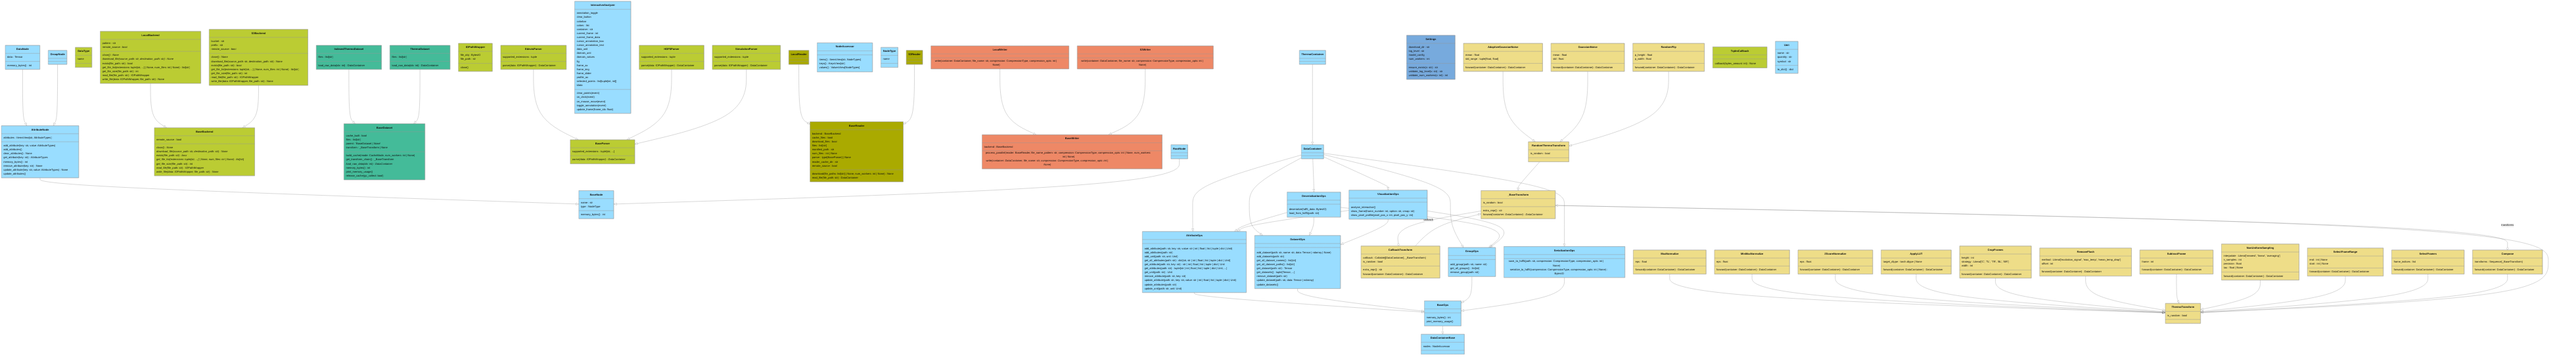
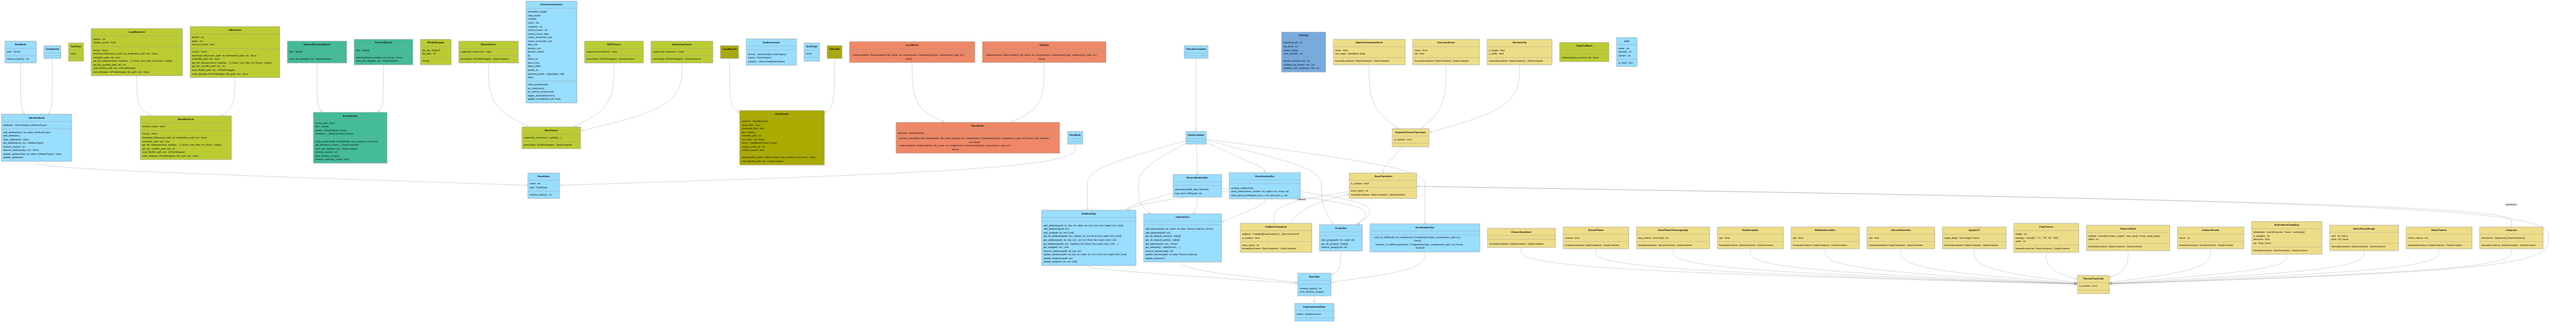
Release 0.3.1 (#304)
* Bump version: 0.3.1dev → 0.3.1

* Update mermaid diagrams

---------

diff --git a/src/pythermondt/__pkginfo__.py b/src/pythermondt/__pkginfo__.py
@@ -1,1 +1,1 @@
-__version__ = "0.3.1dev"
+__version__ = "0.3.1"
